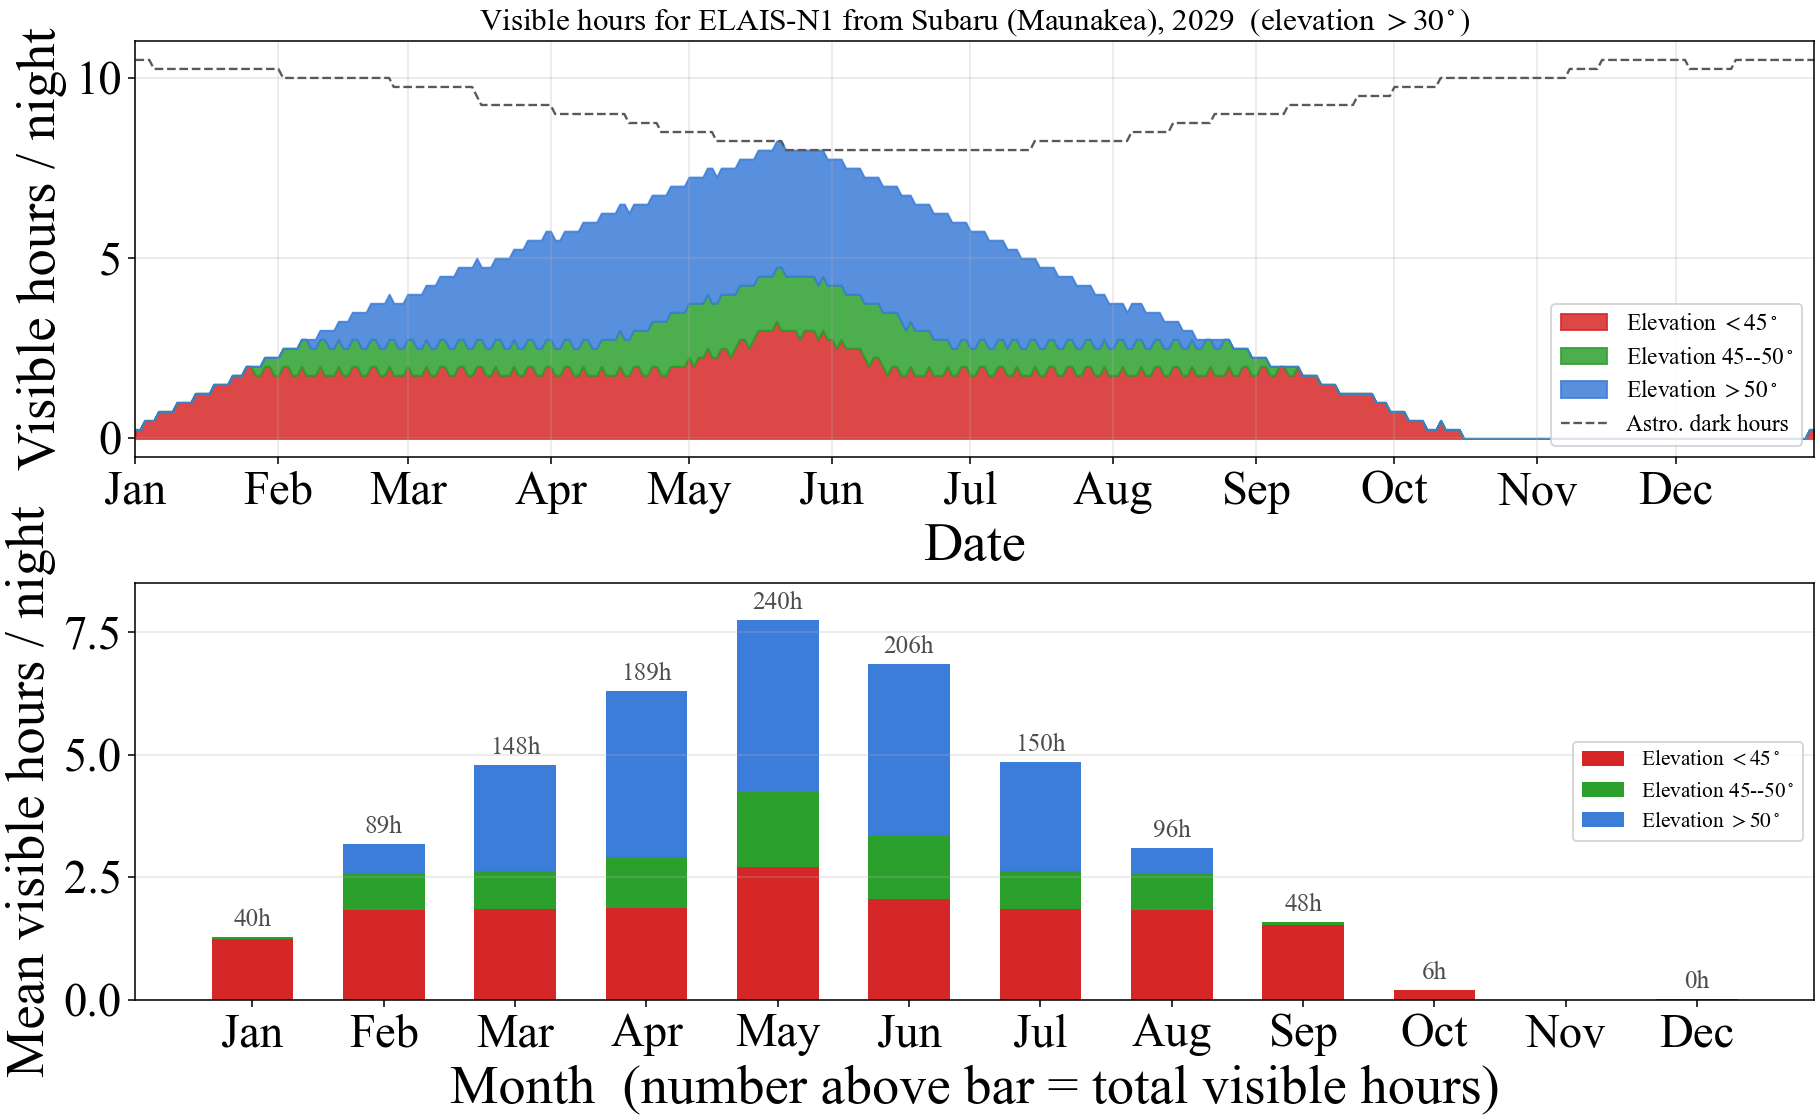
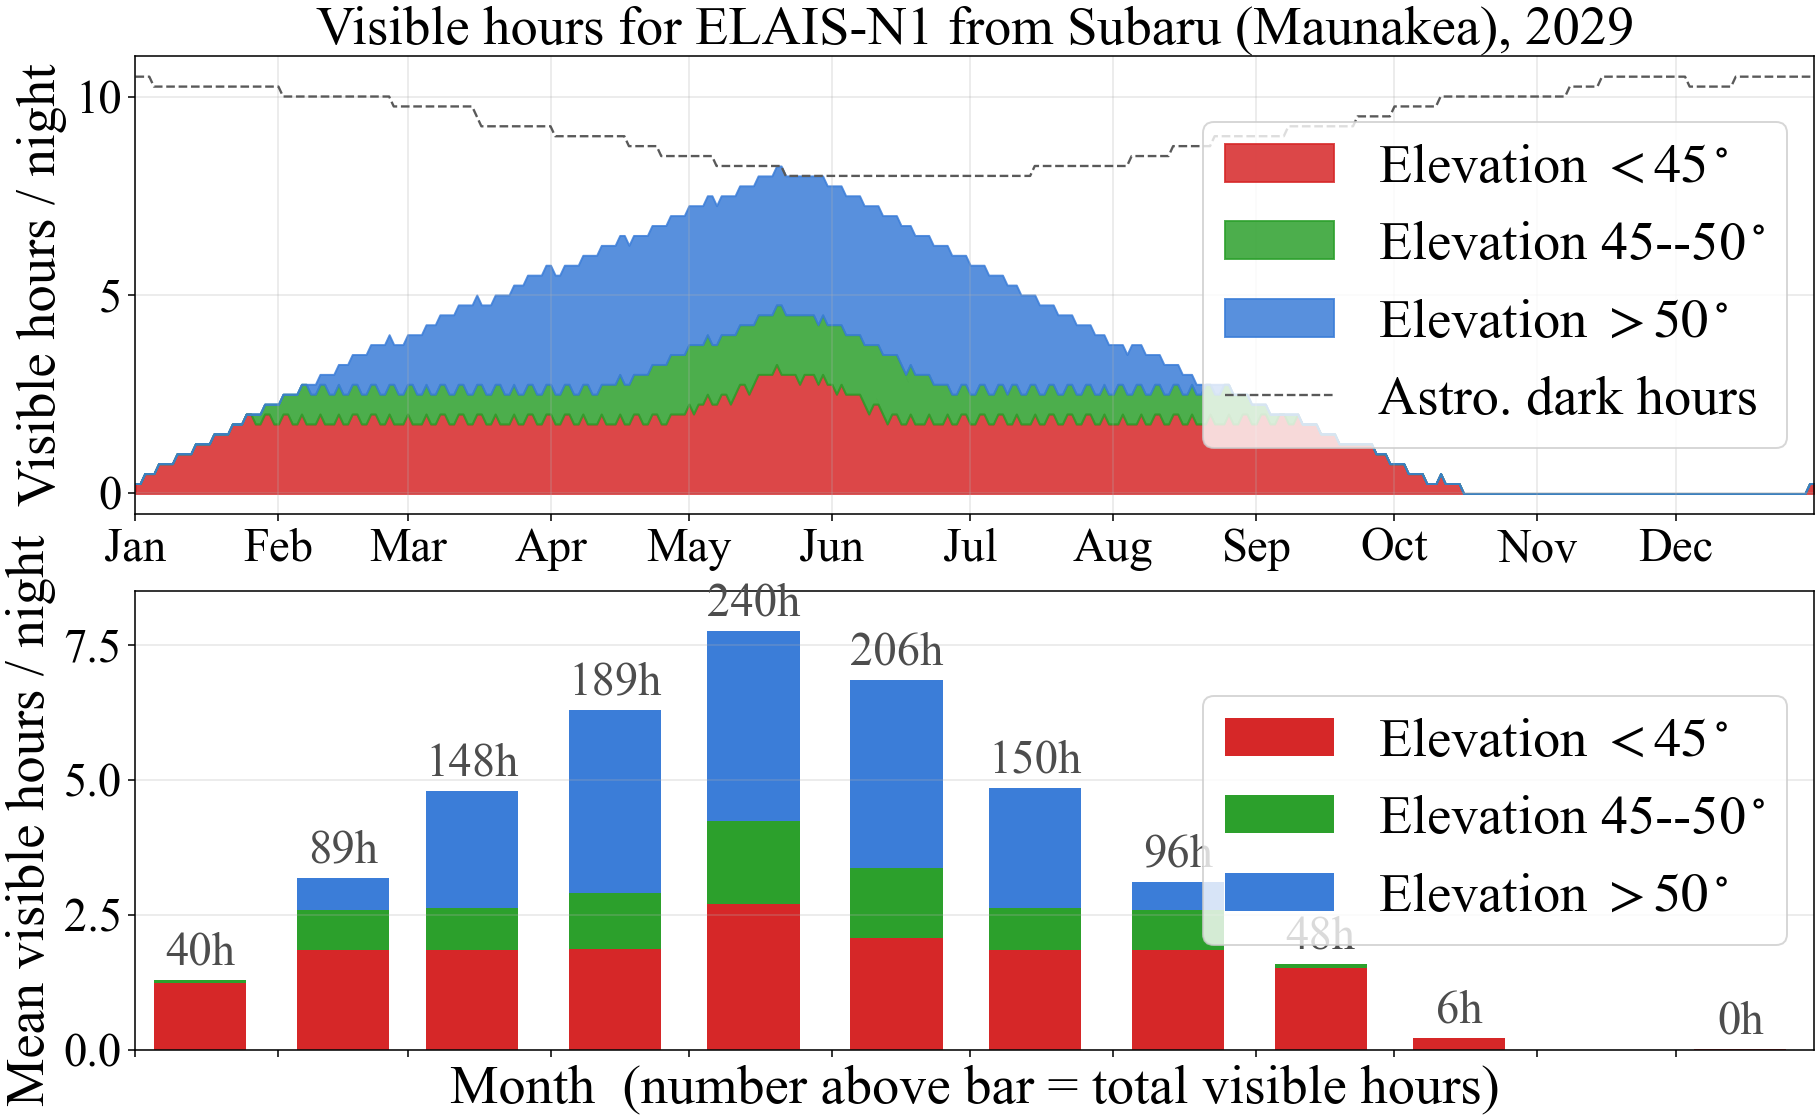
05: shared x-axis with month labels between panels, 28pt title/legends, 24pt bar totals

Changed region(s): [[0.0, 0.0, 1.0, 1.0], [0.5538, 0.125, 0.6154, 0.1562], [0.2769, 0.0938, 0.3385, 0.125]]

diff --git a/programs_pfs/05_visibility.py b/programs_pfs/05_visibility.py
@@ -184,7 +184,8 @@ def main():
     print("plot ->", png)
 
     # ---- dedicated "observable hours" figure: per night + per month ----
-    fig2, (axn, axm) = plt.subplots(2, 1, figsize=(13, 8), constrained_layout=True)
+    fig2, (axn, axm) = plt.subplots(2, 1, figsize=(13, 8), sharex=True,
+                                    constrained_layout=True)
 
     s1 = red_h
     s2 = red_h + grn_h
@@ -197,34 +198,34 @@ def main():
                      label="Elevation $>50^\\circ$")
     axn.plot(dnum, hrs_dark, color="0.35", lw=1.2, ls="--", label="Astro. dark hours")
     axn.set_ylabel("Visible hours / night", fontsize=28)
-    axn.set_xlabel("Date", fontsize=28)
     axn.tick_params(labelsize=24)
-    axn.legend(fontsize=12, loc="lower right")
+    axn.tick_params(axis="x", labelbottom=True)   # month labels between the panels
+    axn.legend(fontsize=28, loc="center right")
     axn.grid(True, alpha=0.3)
-    axn.set_title(f"Visible hours for {args.name} from Subaru (Maunakea), {args.year}  "
-                  f"(elevation $>{alt_lim:.0f}^\\circ$)", fontsize=TITLE_FS)
+    axn.set_title(f"Visible hours for {args.name} from Subaru (Maunakea), {args.year}",
+                  fontsize=28)
     axn.xaxis.set_major_locator(mdates.MonthLocator())
     axn.xaxis.set_major_formatter(mdates.DateFormatter("%b"))
     axn.set_xlim(dnum.min(), dnum.max())
 
-    x = np.arange(12)
-    axm.bar(x, mon_red, width=0.62, color="#d62728",
+    # bars share the top panel's date axis (month centers), months labeled once
+    x = mdates.date2num(Time([f"{args.year}-{m:02d}-15" for m in range(1, 13)]).to_datetime())
+    axm.bar(x, mon_red, width=20, color="#d62728",
             label="Elevation $<45^\\circ$")
-    axm.bar(x, mon_grn, width=0.62, bottom=mon_red, color="#2ca02c",
+    axm.bar(x, mon_grn, width=20, bottom=mon_red, color="#2ca02c",
             label="Elevation 45--50$^\\circ$")
-    axm.bar(x, mon_blu, width=0.62, bottom=mon_red + mon_grn, color="#3b7dd8",
+    axm.bar(x, mon_blu, width=20, bottom=mon_red + mon_grn, color="#3b7dd8",
             label="Elevation $>50^\\circ$")
     for i in range(12):
         if mon_mean[i] > 0:
-            axm.text(i, mon_mean[i] + 0.1, f"{mon_tot[i]:.0f}h", ha="center",
-                     va="bottom", fontsize=13, color="0.3")
-    axm.set_xticks(x)
-    axm.set_xticklabels(MON, fontsize=24)
+            axm.text(x[i], mon_mean[i] + 0.1, f"{mon_tot[i]:.0f}h", ha="center",
+                     va="bottom", fontsize=24, color="0.3")
     axm.set_ylabel("Mean visible hours / night", fontsize=28)
     axm.set_xlabel("Month  (number above bar = total visible hours)", fontsize=28)
     axm.tick_params(labelsize=24)
+    axm.tick_params(axis="x", labelbottom=False)  # months shown between panels only
     axm.set_ylim(0, 8.5)
-    axm.legend(fontsize=11, loc="center right")
+    axm.legend(fontsize=28, loc="center right")
     axm.grid(True, axis="y", alpha=0.3)
 
     png2 = os.path.join(PNG_DIR, f"05_visibility_hours_{args.name}_{args.year}.png")